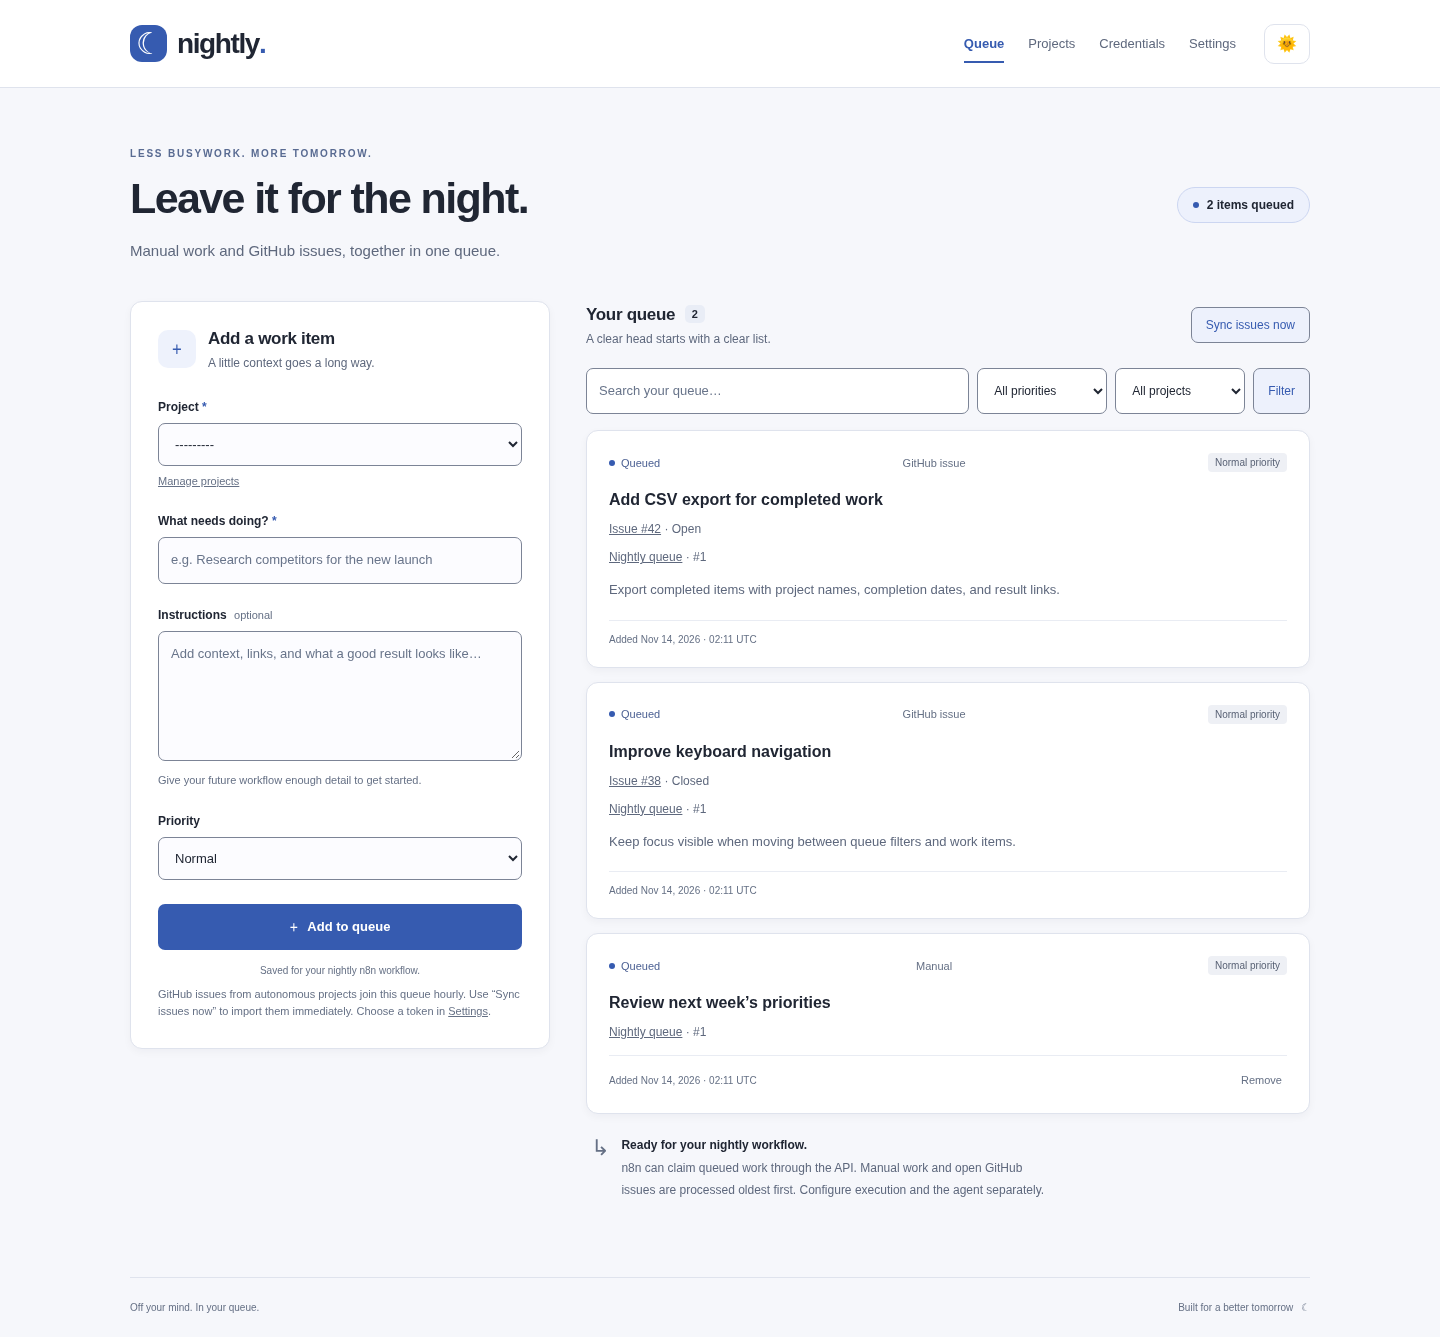
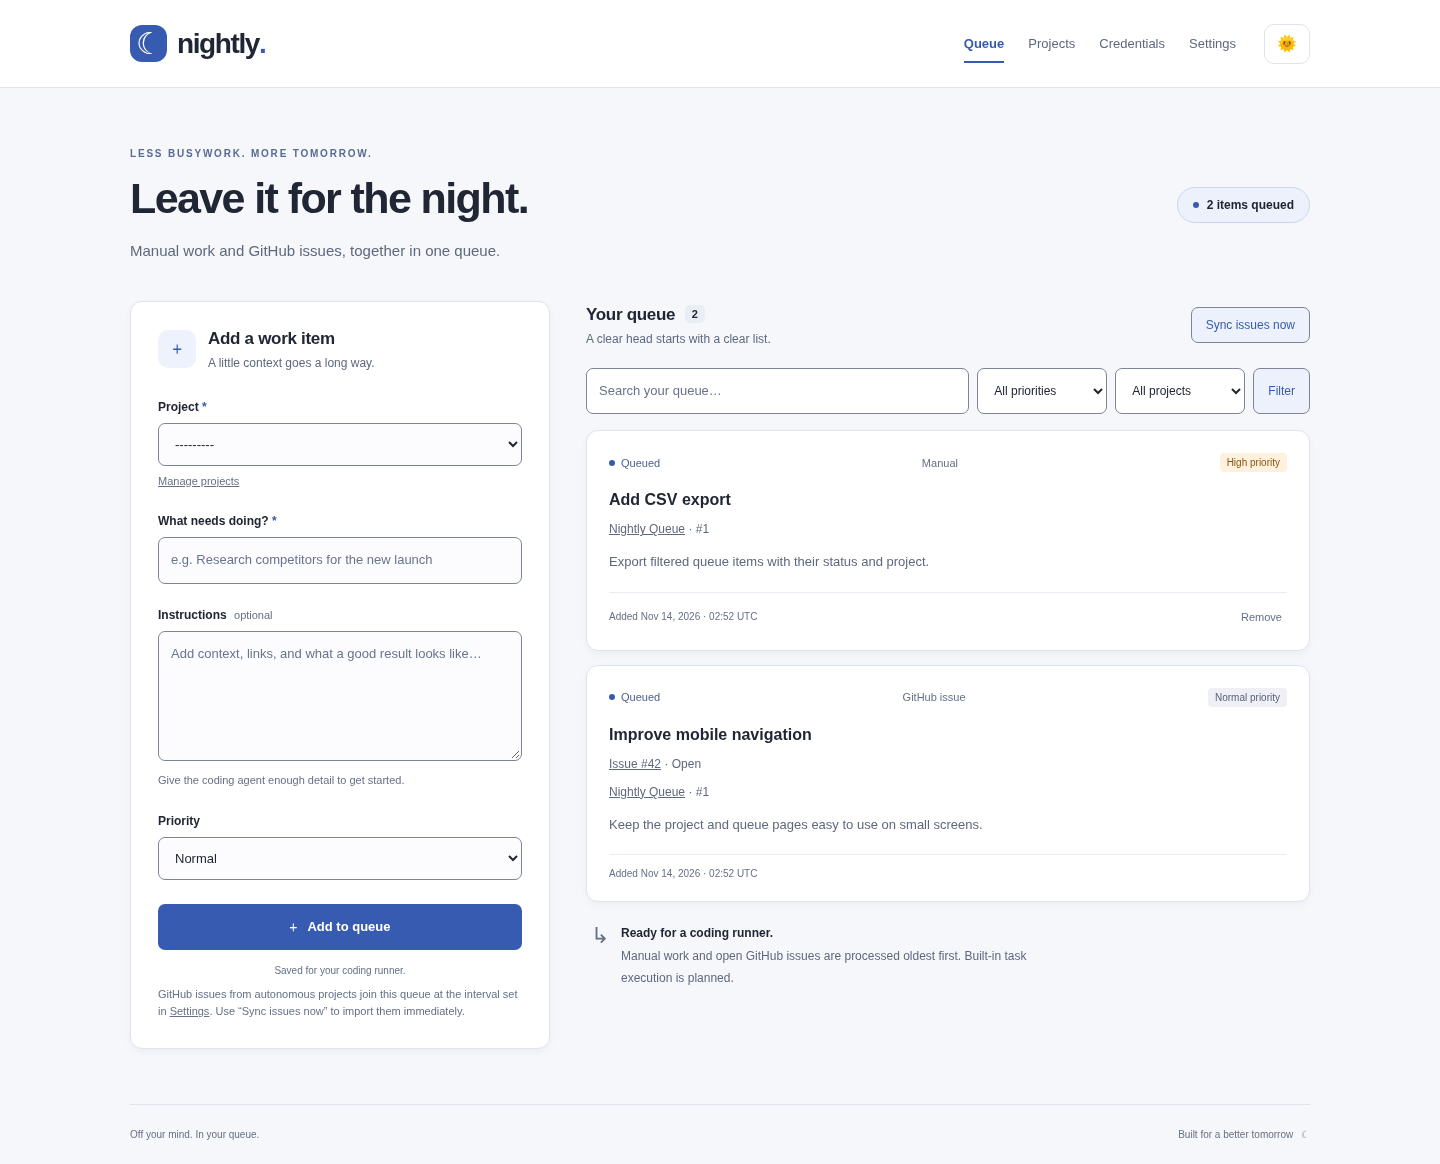
wip

diff --git a/work_queue/templates/work_queue/index.html b/work_queue/templates/work_queue/index.html
@@ -46,14 +46,14 @@
           <div class="field">
             <label for="{{ form.instructions.id_for_label }}">Instructions <span class="optional">optional</span></label>
             {{ form.instructions }}
-            <p class="field-hint">Give your future workflow enough detail to get started.</p>
+            <p class="field-hint">Give the coding agent enough detail to get started.</p>
           </div>
           <div class="field">
             <label for="{{ form.priority.id_for_label }}">Priority</label>
             {{ form.priority }}
           </div>
           <button class="button-primary" type="submit"><span aria-hidden="true">＋</span> Add to queue</button>
-          <p class="form-footnote">Saved for your nightly n8n workflow.</p>
+          <p class="form-footnote">Saved for your coding runner.</p>
           <p class="field-hint">GitHub issues from autonomous projects join this queue at the interval set in <a href="{% url 'api_settings' %}">Settings</a>. Use “Sync issues now” to import them immediately.</p>
         </form>
       </section>
@@ -123,7 +123,7 @@
         </div>
         <aside class="integration-note">
           <span class="integration-icon" aria-hidden="true">↳</span>
-          <div><strong>Ready for your nightly workflow.</strong><p>n8n can claim queued work through the API. Manual work and open GitHub issues are processed oldest first. Configure execution and the agent separately.</p></div>
+          <div><strong>Ready for a coding runner.</strong><p>Manual work and open GitHub issues are processed oldest first. Built-in task execution is planned.</p></div>
         </aside>
       </section>
     </div>

diff --git a/work_queue/test_api.py b/work_queue/test_api.py
@@ -147,14 +147,14 @@ class APITests(TestCase):
 
     def test_claim_returns_execution_settings(self):
         item = enqueue_item(project=self.project, title="Work")
-        response = self.post("api_claim", {"execution_ref": "n8n:123"})
+        response = self.post("api_claim", {"execution_ref": "runner:123"})
         claimed = response.json()["item"]
         self.assertEqual(claimed["id"], item.pk)
         self.assertEqual(claimed["status"], "running")
         self.assertEqual(claimed["repository_url"], self.project.repository_url)
         self.assertEqual(claimed["base_branch"], "develop")
         self.assertEqual(claimed["branch_name"], f"nq/{item.pk}")
-        self.assertEqual(claimed["execution_ref"], "n8n:123")
+        self.assertEqual(claimed["execution_ref"], "runner:123")
         self.assertIsNotNone(claimed["started_at"])
         self.assertTrue(uuid.UUID(claimed["claim_token"]))
 

diff --git a/work_queue/tests.py b/work_queue/tests.py
@@ -37,7 +37,7 @@ class QueueViewTests(TestCase):
         self.assertEqual(response.status_code, 200)
         self.assertContains(response, "Leave it for the night.")
         self.assertContains(response, "Add your first item")
-        self.assertContains(response, "n8n can claim queued work through the API")
+        self.assertContains(response, "Built-in task execution is planned.")
         self.assertEqual(response.context["queue_count"], 0)
 
     def test_add_item_persists_and_redirects(self):

diff --git a/work_queue/admin.py b/work_queue/admin.py
@@ -55,7 +55,7 @@ class QueueItemAdmin(admin.ModelAdmin):
 
     @admin.action(
         permissions=["change"],
-        description="Requeue failed/interrupted work (stop its n8n run first)",
+        description="Requeue failed/interrupted work (stop its runner first)",
     )
     def requeue_stopped_work(self, request, queryset):
         count = requeue_items(queryset)

diff --git a/work_queue/test_services.py b/work_queue/test_services.py
@@ -101,7 +101,7 @@ class QueueServiceTests(TestCase):
         self.assertEqual(claim_next().base_branch, "")
 
     def test_requeue_clears_attempt_state(self):
-        first = claim_next(execution_ref="n8n:123")
+        first = claim_next(execution_ref="runner:123")
         finish_item(
             item_id=first.pk,
             claim_token=first.claim_token,

diff --git a/docs/coding-runner.md b/docs/coding-runner.md
@@ -1,0 +1,137 @@
+# Coding runner architecture and implementation plan
+
+## Status
+
+The next execution component is a dedicated `coding-runner` Docker Compose service
+in this repository. This document defines the planned implementation. The current
+stack stores tasks, imports GitHub issues, and exposes claim/finish APIs; it does
+not execute coding tasks or create pull requests.
+
+## Responsibilities
+
+| Component | Owns |
+| --- | --- |
+| Django application | Projects, queue state, settings, and result display |
+| PostgreSQL | Durable application data |
+| Celery Beat and worker | Scheduled GitHub issue discovery |
+| Coding runner | Execution schedule, claims, workspaces, agents, validation, Git operations, PR delivery, and completion reporting |
+| Codex, Claude Code, or OpenCode | Repository inspection and task implementation within a workspace |
+| Optional Ollama service | Model inference for a compatible coding backend |
+
+The runner owns the full claim-to-finish lifecycle. Agent output supplies evidence
+and context; the runner verifies command results, validation results, and PR
+delivery before reporting success.
+
+## Container and process layout
+
+- Add a separately built `coding-runner` service and package. Keep `nq` independent
+  of the runner and Django.
+- Use the existing HTTP API at `http://nightly-queue:8000` on the Compose network.
+  The runner has no direct database or Celery broker dependency.
+- Process one item at a time initially. Claim only when capacity is available and
+  the configured execution window is open.
+- Run as a non-root user with an isolated workspace per task. Do not mount the live
+  application source, host home directory, or host Docker socket into the agent's
+  environment.
+- Persist execution metadata, logs, checkout state, and delivery results in a
+  dedicated runner volume. Define retention and cleanup behavior.
+- Install Git, GitHub tooling, and the selected coding backend. Start with the
+  target projects' build dependencies; add project-specific images when needed.
+- Pin coding tool versions in the image. Model authentication and selection remain
+  backend-specific configuration.
+
+## Task lifecycle
+
+1. Check execution settings and runner credentials before claiming work.
+2. Persist a unique run ID, then call `POST /api/v1/items/claim/` with
+   `execution_ref` set to `runner:<run-id>`. An empty queue returns `item: null`;
+   wait for the polling interval before checking again.
+3. Persist the item ID, claim token, and returned checkout settings. Use the
+   top-level `repository_url`, `base_branch`, and `branch_name`. Resolve a blank
+   base branch to the repository default and record the resolved branch.
+4. Clone/fetch the repository into the task workspace. Create or reuse the returned
+   branch, preserving prior work and an existing PR during retries. Do not discard
+   changes or force-push automatically.
+5. Run the selected coding agent with the task title, instructions, issue metadata,
+   and applicable repository guidance. Enforce the task timeout.
+6. Inspect the diff and run project validation. An agent's success message or exit
+   status alone does not establish that the task is complete.
+7. Commit changes, push the branch, and create or reuse a PR against the resolved
+   base branch. Record the commit and real PR URL before reporting completion.
+   Include validation evidence and link the originating issue when applicable.
+8. Call `POST /api/v1/items/<id>/finish/` using the exact claim token. Send
+   `status: succeeded` and the PR URL in `result_url` after verified delivery.
+   Report known execution failures with `status: failed` and a concise
+   `error_summary`. Preserve useful logs and any PR already created.
+9. Continue while the execution window and task limit permit. Closing the window
+   prevents new claims; the current task may finish within its timeout.
+
+Success means delivery for review. It does not mean CI passed remotely, the PR
+merged, or the GitHub issue closed. The runner does not merge PRs automatically.
+No-change results need an explicit policy before unattended operation; they must
+not produce fabricated commits, PR URLs, or successful delivery reports.
+
+## Settings and credentials
+
+Keep execution scheduling separate from the existing 1h/4h/8h/12h/24h issue sync
+setting. Plan Django settings for enabled/paused execution, continuous or nightly
+windows with an explicit timezone, task timeout, and tasks per window. Provide
+backend/model defaults and project overrides for backend, model, setup commands,
+and validation commands. Read settings through an authenticated runner API that
+must be implemented; the current API exposes neither execution settings nor these
+project overrides. Paused execution must prevent new claims.
+
+Configure the queue API token, GitHub clone/push/PR credentials, coding backend
+authentication, and any Ollama endpoint as runner secrets or environment settings.
+The current project credential API does not expose secrets. The initial runner
+uses separately configured credentials and does not receive the application's
+credential encryption key or database credentials.
+
+Keep credentials and claim tokens out of agent prompts and published logs. Pass
+task inputs as structured data or files, never as interpolated shell commands.
+Repository and issue content must not grant access to other projects, host files,
+or infrastructure. Define how requests requiring approval are surfaced and paused;
+do not silently bypass required approvals to keep an unattended run moving.
+
+## Interruption and recovery
+
+The current API has no heartbeat, expiring lease, item-detail endpoint, or requeue
+endpoint. Interrupted items stay running until an operator stops the original
+runner and agent, then uses **Requeue failed/interrupted work** in admin. Requeueing
+invalidates the old claim token and preserves branch and checkout settings.
+
+Persist run state before and after external operations. Distinguish implementation
+failure from completion-reporting failure: a delivered PR must remain recoverable
+when the finish request fails. Do not rerun the agent or create a second PR solely
+because completion reporting failed.
+
+Do not blindly repeat claims or finish calls after ambiguous network timeouts.
+The request may already have succeeded; repeated completion returns HTTP 409.
+Before unattended use, implement an authenticated reconciliation API for a runner
+to recover its own claims and confirm item status. Define and test restart and
+cancellation behavior before adding automatic requeueing or lease expiry; prevent
+two surviving agents from operating on the same task.
+
+## Implementation order and acceptance
+
+1. Add the runner package, image, Compose service, isolated volumes, and lifecycle
+   loop. Prove authenticated connectivity without claiming production work during
+   startup checks.
+2. Add execution settings, project overrides, migrations, and authenticated runner
+   configuration/reconciliation endpoints. Test scheduling, pause behavior, and
+   timezone boundaries independently of issue sync.
+3. Implement one coding backend behind a common adapter interface, then add Codex,
+   Claude Code, and OpenCode adapters as separately verified integrations.
+4. Implement checkout, validation, branch push, and repeatable PR creation. Test
+   using temporary local repositories and stubbed provider responses.
+5. Add persistent run logs, timeout handling, shutdown behavior, approval handling,
+   reconciliation, and recovery. Test interruption after claim, push, PR creation,
+   and completion reporting, including stale claims and ambiguous responses.
+6. Update the UI with execution settings and run visibility. Run a controlled
+   end-to-end task in a designated test repository: queued → running → succeeded,
+   with a real branch and PR. Verify a failing task reports failed with useful
+   diagnostics. Verify restarts do not duplicate agent runs or PRs.
+
+Built-in execution is ready only after the service and these behaviors are
+implemented and verified. The existing queue API and issue importer remain the
+foundation throughout this work.

diff --git a/README.md b/README.md
@@ -1,7 +1,9 @@
 # nightly-queue
 
-Queue work for your GitHub projects. Django stores it; n8n claims items and runs
-an agent on a nightly schedule.
+Queue work for your GitHub projects. Django stores tasks and imports issues.
+A dedicated `coding-runner` Docker Compose service is planned to execute queued
+work with Codex, Claude Code, or OpenCode and deliver pull requests.
+See the [coding runner architecture and implementation plan](docs/coding-runner.md).
 
 ## Run locally
 
@@ -19,7 +21,9 @@ docker compose exec nightly-queue python manage.py createsuperuser
    blank to use the repository default.
 2. Open [the queue](http://127.0.0.1:7777/) and add work with a title, optional
    instructions, and priority.
-3. Use n8n to process items oldest first. Priority does not change their order.
+3. Items are ready for a runner to claim through the API, oldest first. Priority
+   does not change their order. Built-in task execution is planned; the current
+   stack stores work and imports issues but does not execute coding tasks.
 
 The **Autonomous** toggle on project creation and editing records whether a
 project should automatically find open issues and create a pull request for each.
@@ -64,7 +68,7 @@ are logged by project ID and retried on the next scheduled run; other projects
 continue importing. Clearing the GitHub selection pauses imports. The GitLab API
 credential selector accepts existing GitLab tokens for future integrations;
 repository URLs and issue imports currently support GitHub only. Creating pull
-requests still requires a separately configured runner.
+requests is part of the planned `coding-runner` service.
 
 The queue, project, credential, and settings pages have no login requirement.
 This is a single-user app for a private LAN.
@@ -140,7 +144,7 @@ URLs still support GitHub only.
 
 ## Move existing SQLite data
 
-Stop n8n executions and app writes first. Keep a backup of `db.sqlite3`.
+Stop any task runners and app writes first. Keep a backup of `db.sqlite3`.
 After setting up `.env`, export the current schema's data and import into an empty PostgreSQL database:
 
 ```sh
@@ -153,7 +157,7 @@ docker compose run --rm --no-deps -T nightly-queue python manage.py dumpdata \
 docker compose exec nightly-queue python manage.py loaddata .cache/sqlite-export.json
 ```
 
-The export opens SQLite read-only. Verify projects and queue items before resuming n8n.
+The export opens SQLite read-only. Verify projects and queue items before resuming task runners.
 
 ## Use the CLI
 
@@ -172,11 +176,26 @@ Use an existing project ID from `nq projects`. Successful submissions print the
 item ID; errors exit nonzero. `NQ_URL` defaults to `http://127.0.0.1:8000`.
 Use `python -m nq` to run without installing. Submissions are never retried automatically.
 
-## Connect n8n
+## Coding runner architecture
 
-Celery Beat owns scheduled issue discovery. n8n owns work execution schedules,
-cloning, and agent execution. Configure its GitHub authentication separately;
-this repo does not install a workflow. The Celery greeting task remains a demo.
+The planned `coding-runner` service will own execution schedules, queue claims,
+isolated repository workspaces, coding agents, validation, commits, pushes, pull
+requests, and completion reporting. Django owns queue state and settings; Celery
+Beat and its worker continue to own scheduled issue discovery. Issue sync and
+coding execution have separate schedules. The Celery greeting task remains a demo.
+
+The runner will use the existing HTTP API at `http://nightly-queue:8000` on the
+Compose network, with its own workspace and secret configuration. It will not
+connect directly to PostgreSQL or mount the live application's source directory.
+GitHub push/PR credentials and coding backend credentials will be configured for
+the runner separately from the issue-import token selected in Settings. The
+existing API does not expose stored project credentials.
+
+The service, execution settings, and recovery behavior are not implemented yet.
+See [the implementation plan](docs/coding-runner.md) for scope and acceptance criteria.
+
+## Issue discovery operations
+
 Beat stores its schedule in `/tmp/celerybeat-schedule` inside its container;
 recreating the container resets Beat's minute check timer. The import interval and
 last scheduled attempt remain in the database.
@@ -194,6 +213,8 @@ instead of executing them eagerly without the credential key.
 No API token is passed as a Celery task argument or returned in
 its result.
 
+## Runner API
+
 All API paths below start with `/api/v1/` and require the bearer token.
 POST bodies must be JSON with `Content-Type: application/json`.
 
@@ -201,7 +222,7 @@ POST bodies must be JSON with `Content-Type: application/json`.
 | --- | --- | --- |
 | `GET /projects/` | — | `{"projects": [...]}` |
 | `POST /items/` | `{"project_id": 12, "title": "Add export", "instructions": "CSV", "priority": "normal"}` | HTTP 201, `{"item": {...}}`; instructions and priority are optional |
-| `POST /items/claim/` | `{"execution_ref": "n8n-execution-id"}` or `{}` | `{"item": {...}}` or `{"item": null}` |
+| `POST /items/claim/` | `{"execution_ref": "runner:<run-id>"}` or `{}` | `{"item": {...}}` or `{"item": null}` |
 | `POST /items/123/finish/` | `{"claim_token": "<UUID from claim>", "status": "succeeded", "result_url": "https://github.com/owner/repo/pull/1"}` | Updated item |
 
 Claims select the oldest eligible item across manual work and imported issues.
@@ -213,25 +234,26 @@ remain visible but cannot be claimed. Existing `/auto/` bookmarks redirect to th
 main queue. The merge migration preserves item IDs, issue metadata, and execution
 history.
 
-Build a workflow that:
+The planned runner will:
 
-1. Runs on your nightly schedule.
-2. Claims an item with the n8n execution ID. Stops when `item` is `null`.
-3. Checks out the returned **top-level** `repository_url` and `base_branch`, then
-   creates or reuses `branch_name` (`nq/<item-id>`). A blank base branch means the
+1. Run continuously or during a configured execution window.
+2. Claim an item with a unique runner execution ID. Stop claiming when `item` is `null`.
+3. Check out the returned **top-level** `repository_url` and `base_branch`, then
+   create or reuse `branch_name` (`nq/<item-id>`). A blank base branch means the
    remote default. These checkout settings stay fixed across retries; the nested
    project reflects current settings.
-4. Runs the agent with the title and instructions. Pass inputs as data, without
+4. Run the selected coding agent with the title and instructions. Pass inputs as data, without
    interpolating them into shell commands.
-5. Finishes with the returned `claim_token` and status `succeeded` or `failed`.
-   Optionally include an HTTP(S) `result_url` or an `error_summary`.
-6. Repeats while the execution window remains open.
+5. Validate the changes, commit, push the task branch, and create or reuse a pull request.
+6. Finish with the returned `claim_token` and status `succeeded` plus the actual PR
+   URL in `result_url`, or `failed` with an `error_summary`.
+7. Repeat while the execution window and configured task limit allow it.
 
 Claims are atomic. Only the current token can finish a running item. Invalid
 input returns 400, wrong tokens 401, missing items 404, wrong methods 405, and
 stale claims or repeated completion 409.
 
-Interrupted items stay running. Stop the old n8n execution and agent, then select
+Interrupted items currently stay running. Stop the old runner execution and agent, then select
 **Requeue failed/interrupted work** in admin. This clears the old token and
 attempt results while preserving checkout settings and the branch. There is no
 automatic recovery. If a claim or finish request times out, inspect the item in

diff --git a/AGENTS.md b/AGENTS.md
@@ -60,7 +60,7 @@ History uses short, free-form subjects such as `switch to uv` and `wip`; no enfo
 
 ## Security & Configuration
 
-Keep tokens and `.env` untracked. Configure `NQ_API_TOKEN` for API access, `NQ_URL` for the CLI, and `POSTGRES_PASSWORD` for the database. PostgreSQL data lives in the `postgres-data` Docker volume. Keep GitHub credentials in n8n. n8n owns scheduling and execution; Celery's greeting task is only a demo.
+Keep tokens and `.env` untracked. Configure `NQ_API_TOKEN` for API access, `NQ_URL` for the CLI, and `POSTGRES_PASSWORD` for the database. PostgreSQL data lives in the `postgres-data` Docker volume. The planned `coding-runner` Compose service owns task execution schedules, coding agents, Git operations, and PR delivery through the queue API. Configure its GitHub and coding backend credentials separately from issue-import credentials. Celery Beat and its worker own scheduled issue imports; Celery's greeting task is only a demo. Follow `docs/coding-runner.md` for the architecture and implementation plan; the runner is not implemented yet.
 
 ## Rules
 
